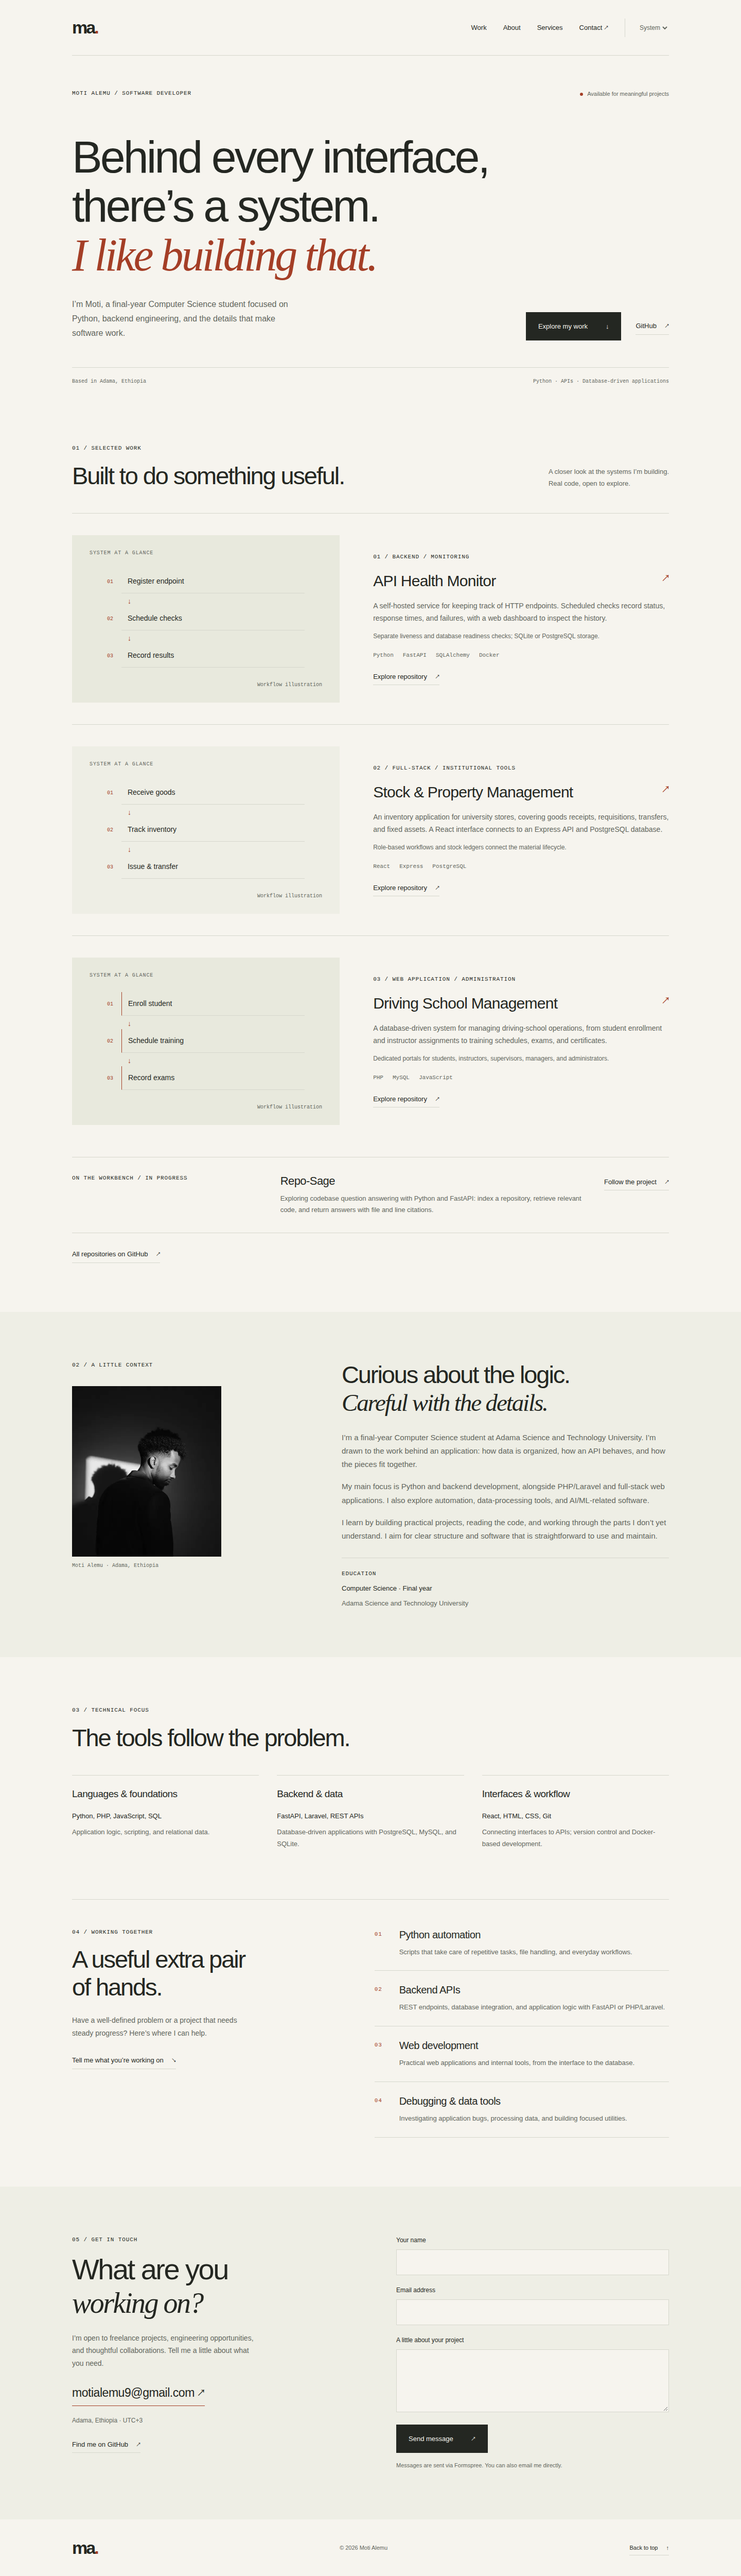
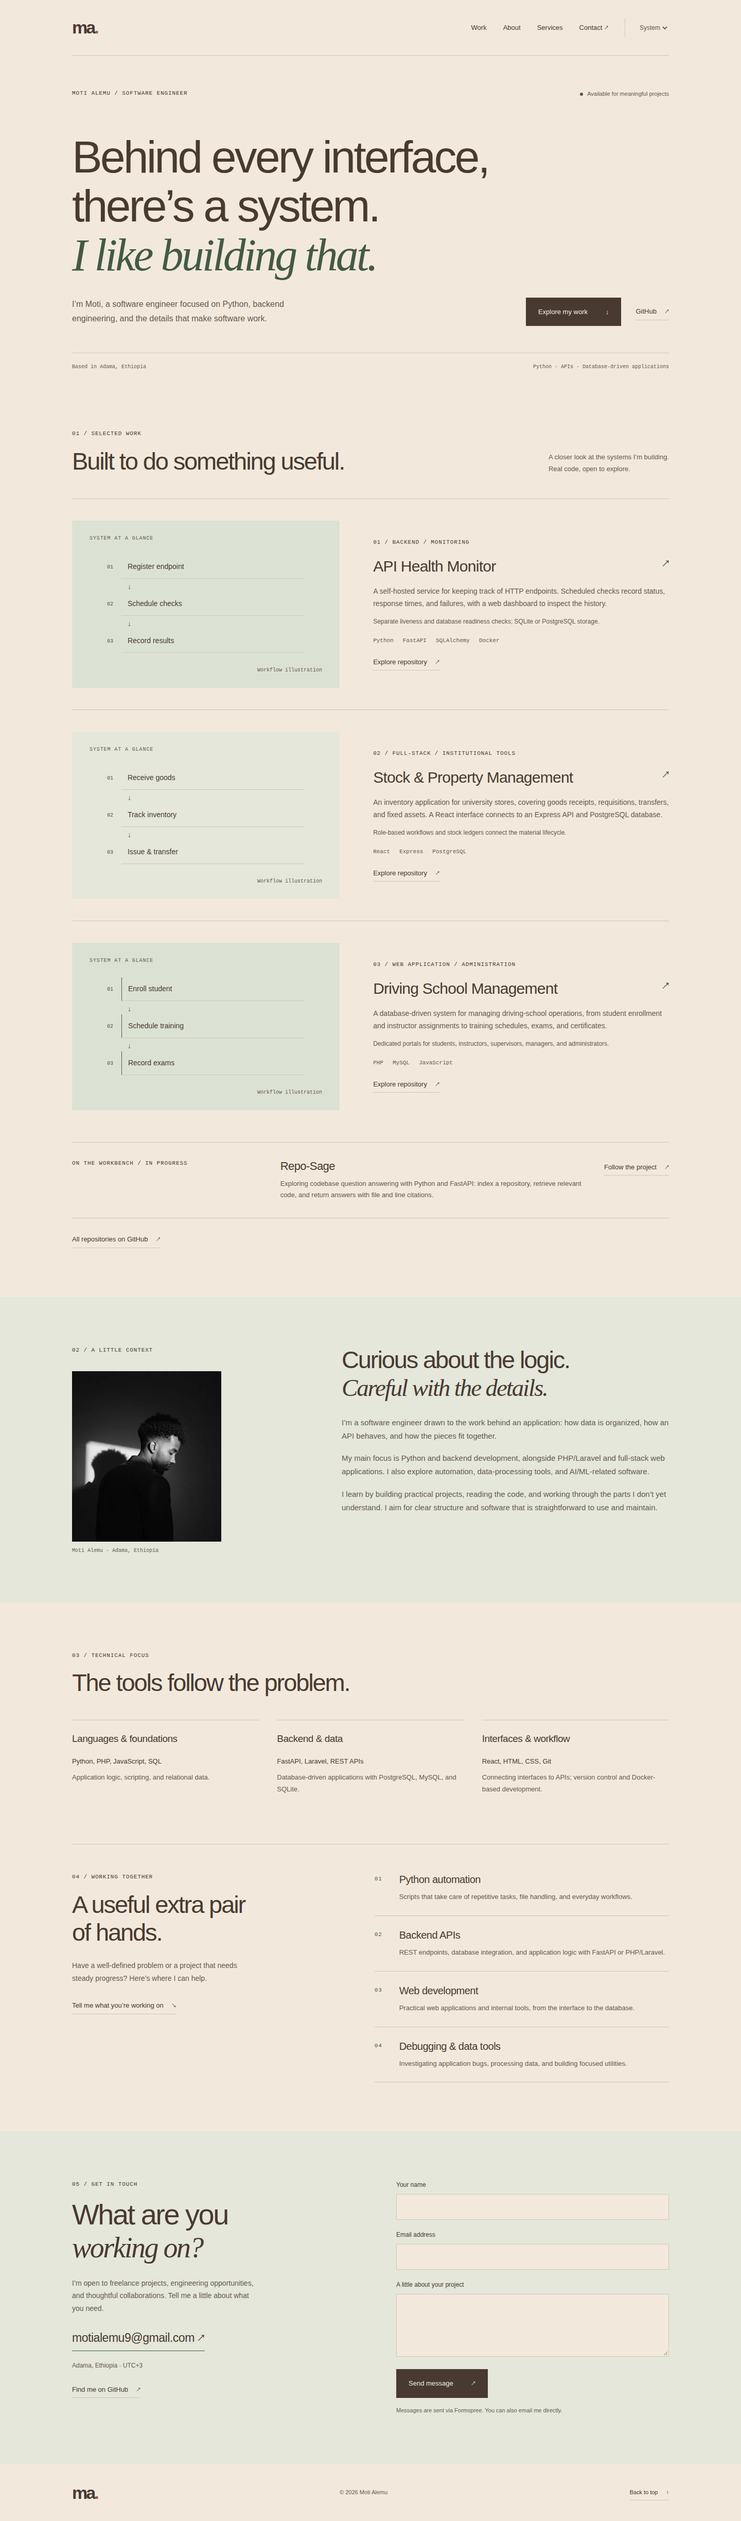
Update engineer positioning and sand mocha green palette

diff --git a/app/globals.css b/app/globals.css
@@ -2,34 +2,37 @@
 @tailwind components;
 @tailwind utilities;
 :root {
-  --paper: #f6f4ee;
-  --ink: #242722;
-  --muted: #62665d;
-  --line: #d6d7cd;
-  --accent: #a43e26;
-  --surface: #eeeee5;
-  --diagram: #e8e9dd;
+  --pink: #ab4f70;
+  --paper: #f2e9dc;
+  --ink: #493a31;
+  --muted: #675a50;
+  --line: #d2c7b6;
+  --accent: #435a45;
+  --surface: #e4e7da;
+  --diagram: #dce2d3;
   color-scheme: light;
 }
 :root[data-theme="dark"] {
-  --paper: #1c201d;
-  --ink: #eeeee5;
-  --muted: #b1b5aa;
-  --line: #41483f;
-  --accent: #efab91;
-  --surface: #242a25;
-  --diagram: #2c342b;
+  --pink: #e8a2b8;
+  --paper: #28241f;
+  --ink: #e4e7da;
+  --muted: #c1b5a4;
+  --line: #514b40;
+  --accent: #b5c9a7;
+  --surface: #30372d;
+  --diagram: #394231;
   color-scheme: dark;
 }
 @media (prefers-color-scheme: dark) {
   :root:not([data-theme="light"]):not([data-theme="dark"]) {
-    --paper: #1c201d;
-    --ink: #eeeee5;
-    --muted: #b1b5aa;
-    --line: #41483f;
-    --accent: #efab91;
-    --surface: #242a25;
-    --diagram: #2c342b;
+    --pink: #e8a2b8;
+    --paper: #28241f;
+    --ink: #e4e7da;
+    --muted: #c1b5a4;
+    --line: #514b40;
+    --accent: #b5c9a7;
+    --surface: #30372d;
+    --diagram: #394231;
     color-scheme: dark;
   }
 }
@@ -118,7 +121,7 @@ em {
   letter-spacing: -3px;
 }
 .wordmark span {
-  color: var(--accent);
+  color: var(--pink);
 }
 nav {
   margin-left: auto;
@@ -386,7 +389,6 @@ h3 {
   height: auto;
   aspect-ratio: 1/1.14;
   object-fit: cover;
-  filter: grayscale(1);
 }
 figcaption {
   font:
@@ -403,21 +405,6 @@ figcaption {
   font-size: 15px;
   color: var(--muted);
   margin-bottom: 17px;
-}
-.education {
-  display: flex;
-  flex-direction: column;
-  gap: 9px;
-  border-top: 1px solid var(--line);
-  margin-top: 29px;
-  padding-top: 22px;
-  font-size: 13px;
-}
-.education strong {
-  font-weight: 400;
-}
-.education > span:last-child {
-  color: var(--muted);
 }
 .skill-grid {
   display: grid;

diff --git a/app/opengraph-image.tsx b/app/opengraph-image.tsx
@@ -1,6 +1,6 @@
 import { ImageResponse } from "next/og";
 export const runtime = "edge";
-export const alt = "Moti Alemu — Software Developer";
+export const alt = "Moti Alemu — Software Engineer";
 export const size = { width: 1200, height: 630 };
 export const contentType = "image/png";
 export default function Image() {
@@ -12,13 +12,13 @@ export default function Image() {
         justifyContent: "space-between",
         width: "100%",
         height: "100%",
-        background: "#f6f4ee",
-        color: "#242722",
+        background: "#f2e9dc",
+        color: "#493a31",
         padding: "70px",
       }}
     >
       <div style={{ display: "flex", fontSize: 28 }}>
-        MOTI ALEMU / SOFTWARE DEVELOPER
+        MOTI ALEMU / SOFTWARE ENGINEER
       </div>
       <div
         style={{
@@ -30,7 +30,7 @@ export default function Image() {
       >
         <span>Behind every interface,</span>
         <span>there’s a system.</span>
-        <span style={{ color: "#a43e26" }}>I like building that.</span>
+        <span style={{ color: "#435a45" }}>I like building that.</span>
       </div>
       <div style={{ display: "flex", fontSize: 24 }}>
         Python · Backend APIs · Practical software

diff --git a/app/layout.tsx b/app/layout.tsx
@@ -2,14 +2,14 @@ import type { Metadata } from "next";
 import "./globals.css";
 import { Navbar } from "@/components/Navbar";
 const description =
-  "Moti Alemu — final-year Computer Science student at Adama Science and Technology University. Python, backend APIs, automation, and full-stack software projects.";
+  "Moti Alemu — Software Engineer. Python, backend APIs, automation, and full-stack software projects.";
 export const metadata: Metadata = {
   metadataBase: new URL("https://moti-alemu.vercel.app"),
-  title: "Moti Alemu — Software Developer",
+  title: "Moti Alemu — Software Engineer",
   description,
   alternates: { canonical: "/" },
   openGraph: {
-    title: "Moti Alemu — Software Developer",
+    title: "Moti Alemu — Software Engineer",
     description,
     url: "/",
     siteName: "Moti Alemu",
@@ -26,7 +26,7 @@ export const metadata: Metadata = {
   },
   twitter: {
     card: "summary_large_image",
-    title: "Moti Alemu — Software Developer",
+    title: "Moti Alemu — Software Engineer",
     description,
     images: ["/opengraph-image"],
   },

diff --git a/components/About.tsx b/components/About.tsx
@@ -27,9 +27,8 @@ export function About() {
             <em>Careful with the details.</em>
           </h2>
           <p>
-            I’m a final-year Computer Science student at Adama Science and
-            Technology University. I’m drawn to the work behind an application:
-            how data is organized, how an API behaves, and how the pieces fit
+            I’m a software engineer drawn to the work behind an application: how
+            data is organized, how an API behaves, and how the pieces fit
             together.
           </p>
           <p>
@@ -42,11 +41,6 @@ export function About() {
             working through the parts I don’t yet understand. I aim for clear
             structure and software that is straightforward to use and maintain.
           </p>
-          <div className="education">
-            <span className="eyebrow">Education</span>
-            <strong>Computer Science · Final year</strong>
-            <span>Adama Science and Technology University</span>
-          </div>
         </div>
       </div>
     </section>

diff --git a/components/Hero.tsx b/components/Hero.tsx
@@ -2,7 +2,7 @@ export function Hero() {
   return (
     <section id="home" className="hero wrap" aria-labelledby="intro-title">
       <div className="hero-top">
-        <p className="eyebrow">Moti Alemu / Software developer</p>
+        <p className="eyebrow">Moti Alemu / Software Engineer</p>
         <p className="availability">
           <span aria-hidden="true" />
           Available for meaningful projects
@@ -17,8 +17,8 @@ export function Hero() {
       </h1>
       <div className="hero-bottom">
         <p>
-          I’m Moti, a final-year Computer Science student focused on Python,
-          backend engineering, and the details that make software work.
+          I’m Moti, a software engineer focused on Python, backend engineering,
+          and the details that make software work.
         </p>
         <div className="hero-links">
           <a className="button" href="#projects">

diff --git a/docs/REDESIGN.md b/docs/REDESIGN.md
@@ -4,7 +4,7 @@
 
 The original site used Next.js 14 App Router, React 18, TypeScript, Tailwind, Framer Motion, and Formspree. It had one placeholder project, missing résumé and project links, a custom cursor, animation-heavy client components, a forced dark theme, and placeholder-only contact fields. No tests were configured. The existing ESLint configuration used APIs incompatible with the installed ESLint/Next versions.
 
-The implementation keeps Next.js, TypeScript, Tailwind, and the existing Formspree integration. It replaces decorative effects with an editorial layout: warm paper, ink, one rust accent, system sans-serif and serif typography, fine rules, and generous spacing. Projects precede biography and skills. Workflow illustrations explain actual functionality and are explicitly labeled; they are not product screenshots or live monitoring data.
+The implementation keeps Next.js, TypeScript, Tailwind, and the existing Formspree integration. It replaces decorative effects with an editorial layout: soft sand, mocha text, muted green, and a restrained pink accent, system sans-serif and serif typography, fine rules, and generous spacing. Projects precede biography and skills. Workflow illustrations explain actual functionality and are explicitly labeled; they are not product screenshots or live monitoring data.
 
 1. Verify public repositories and personal information.
 2. Rebuild navigation, hero, selected work, biography, categorized skills, services, and contact.
@@ -25,7 +25,7 @@ Reviewed the public `tote10` repositories on November 17, 2026: Portfolio, tote1
 | sador                       | [README](https://github.com/tote10/sador/blob/main/README.md)                                                                                                                                                                                                                                                                                                                                                                            | Omitted: generic Laravel README provides insufficient context for a meaningful project description.                                                                                |
 | CompileML                   | [README](https://github.com/tote10/CompileML/blob/main/README.md)                                                                                                                                                                                                                                                                                                                                                                        | Omitted: upstream links point to orgoca/CompileML; individual contribution not established.                                                                                        |
 
-Name, email, location, and portfolio domain come from the existing site and [public profile README](https://github.com/tote10/tote10/blob/main/README.md). Education and stated technical interests come directly from the owner's redesign brief. Skills communicate focus areas, not certifications or proficiency scores. Services describe the work offered, not past paid engagements.
+Name, email, location, and portfolio domain come from the existing site and [public profile README](https://github.com/tote10/tote10/blob/main/README.md). The current professional title, Software Engineer, follows the owner’s latest correction; student and education copy has been removed. Stated technical interests come directly from the owner’s brief. Skills communicate focus areas, not certifications or proficiency scores. Services describe the work offered, not past paid engagements.
 
 ## Maintenance
 
@@ -58,3 +58,7 @@ No gradients, neon, glass panels, custom cursor, decorative counters, skills bad
 The existing Next.js 14.1.0 version is retained to keep this redesign on the existing framework version. The installer flags it as vulnerable; a framework security upgrade remains necessary before production rollout. See the [Next.js security notice](https://nextjs.org/blog/security-update-2025-12-11) and [current support policy](https://nextjs.org/support-policy). This redesign does not claim to remediate inherited dependency vulnerabilities.
 
 The existing Formspree endpoint is retained, but its account configuration and end-to-end email delivery have not been verified. Browser tests intercept requests and send no real messages. The verified email link provides a direct alternative.
+
+## Latest owner revision
+
+Present Moti as a Software Engineer across the hero, biography, SEO metadata, and sharing image. Remove student and education positioning. Use soft sand (`#f2e9dc`), mocha (`#493a31`), and muted green (`#435a45`), with pink (`#ab4f70`) limited to the wordmark dot. Retain corresponding dark theme colors. Remove the grayscale portrait filter so a replacement photo can retain its natural colors. The new portrait is pending an image from the owner; the existing photo remains in place.

diff --git a/docs/PULL_REQUEST.md b/docs/PULL_REQUEST.md
@@ -2,7 +2,7 @@
 
 Replace the placeholder construction project and animation-heavy presentation with an editorial portfolio centered on real software: API Health Monitor, Stock & Property Management, Driving School Management, and an explicitly ongoing Repo-Sage entry.
 
-The design uses warm paper and ink, a rust accent, system typography, clear project workflows, and responsive layouts. It adds education, categorized technical focus, practical services, and an accessible contact form while preserving the existing Formspree integration. System/light/dark themes persist, and metadata includes a generated sharing image, sitemap, robots route, and custom icon. Six unused UI/animation dependencies and their components are removed.
+The design uses soft sand, mocha, muted green, and a small pink accent, system typography, clear project workflows, and responsive layouts. It presents Moti as a Software Engineer and adds categorized technical focus, practical services, and an accessible contact form while preserving the existing Formspree integration. System/light/dark themes persist, and metadata includes a generated sharing image, sitemap, robots route, and custom icon. Six unused UI/animation dependencies and their components are removed.
 
 ## Review
 
